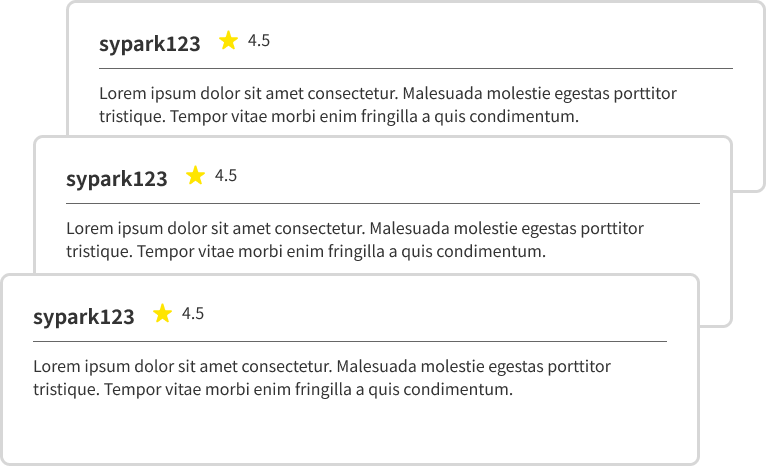
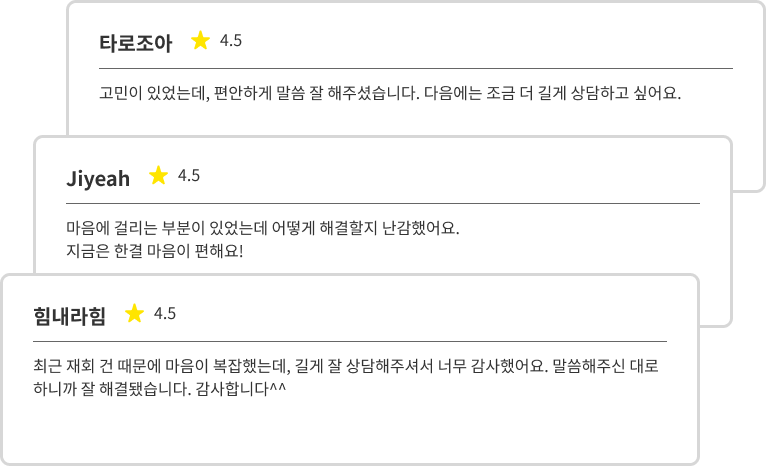
fix: eslint 오류 수정, 메인페이지 리뷰 사진 변경

diff --git a/frontend/src/views/ReservationView.vue b/frontend/src/views/ReservationView.vue
@@ -284,7 +284,7 @@ export default {
           method: 'PUT',
           url: `members/follow/${this.counselor.memberNo}`,
       })
-      .then((res) => {
+      .then(() => {
           this.isFollowing = true
       })
       .catch((e) => {
@@ -297,7 +297,7 @@ export default {
           method: 'DELETE',
           url: `members/unfollow/${this.counselor.memberNo}`,
       })
-      .then((res) => {
+      .then(() => {
           this.isFollowing = false
       })
       .catch((e) => {

diff --git a/frontend/src/views/Mypage/CounselorView_reportUpdate.vue b/frontend/src/views/Mypage/CounselorView_reportUpdate.vue
@@ -106,7 +106,7 @@ export default {
                     counselingResult: this.reportTxt
                     }
                 })
-                .then((res) => {
+                .then(() => {
                     alert("수정되었습니다!")
                 }) 
                 .catch((e) => {

diff --git a/frontend/src/views/Mypage/CounselorView.vue b/frontend/src/views/Mypage/CounselorView.vue
@@ -196,8 +196,7 @@ export default {
                     startTime: this.startTime,
                     endTime: this.endTime
             })
-        .then((re) => {
-        }).catch((e) => {
+        .catch((e) => {
             console.log(e)
         })
     },

diff --git a/frontend/src/views/Mypage/MypageView.vue b/frontend/src/views/Mypage/MypageView.vue
@@ -132,7 +132,7 @@
                 'Content-Type': 'multipart/form-data',
                 },
             })
-            .then((res) => {
+            .then(() => {
                 window.location.reload();
             })
             .catch((e) => {
